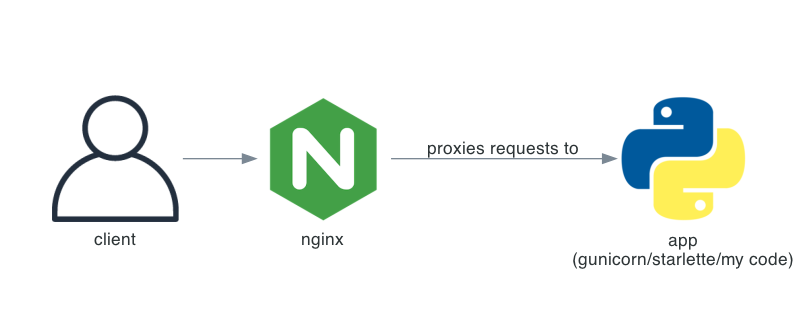
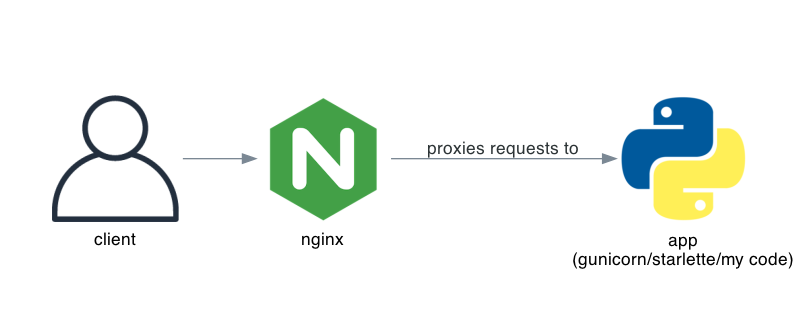
doc: update diagram styles
The font was a bit too light and wasn't displaying well.

Changed region(s): [[0.7209, 0.7382, 0.9912, 0.8517], [0.3605, 0.7382, 0.4506, 0.795], [0.1202, 0.7382, 0.1802, 0.795]]

diff --git a/doc/arch_diags.py b/doc/arch_diags.py
@@ -6,7 +6,26 @@ from diagrams.onprem.client import User
 from diagrams.onprem.network import Nginx
 from diagrams.programming.language import Python
 
-with Diagram(name="", filename="components", show=False, graph_attr={"pad": "0.5"}):
+
+class CustomDiagram(Diagram):
+    """Custom Diagram to apply global options to all sub-objects"""
+
+    graph_attrs = {"fontcolor": "black", "pad": "0.5"}
+    node_attrs = {"fontcolor": "black"}
+    edge_attrs = {"fontcolor": "black"}
+
+    def __init__(self, *args, **kwargs):
+        super().__init__(
+            *args,
+            **kwargs,
+            show=False,
+            graph_attr=self.graph_attrs,
+            node_attr=self.node_attrs,
+            edge_attr=self.edge_attrs
+        )
+
+
+with CustomDiagram(name="", filename="components"):
     client = User("client")
     nginx = Nginx("nginx")
     nx_to_py = Edge(label="proxies requests to")
@@ -18,8 +37,9 @@ with Diagram(name="", filename="components", show=False, graph_attr={"pad": "0.5
 ALB_EDGE = Edge(label="proxies traffic to")
 
 
-with Diagram(
-    name="architecture: tcp", filename="tcp", show=False, graph_attr={"pad": "0.5"}
+with CustomDiagram(
+    name="architecture: tcp",
+    filename="tcp",
 ):
     with Cluster("ECS Cluster w/Fargate Compute"):
         nginx = ElasticContainerServiceContainer("nginx container")
@@ -30,11 +50,9 @@ with Diagram(
     ALB(label="application load balancer") >> ALB_EDGE >> nginx
 
 
-with Diagram(
+with CustomDiagram(
     name="architecture: sharevol",
     filename="sharedvol",
-    show=False,
-    graph_attr={"pad": "0.5"},
 ):
     with Cluster("ECS Cluster w/Fargate Compute"):
         nginx = ElasticContainerServiceContainer("nginx container")
@@ -46,11 +64,9 @@ with Diagram(
     ALB(label="application load balancer") >> ALB_EDGE >> nginx
 
 
-with Diagram(
+with CustomDiagram(
     name="architecture: combined",
     filename="combined",
-    show=False,
-    graph_attr={"pad": "0.5"},
 ):
     with Cluster("ECS Cluster w/Fargate Compute"):
         with Cluster(
